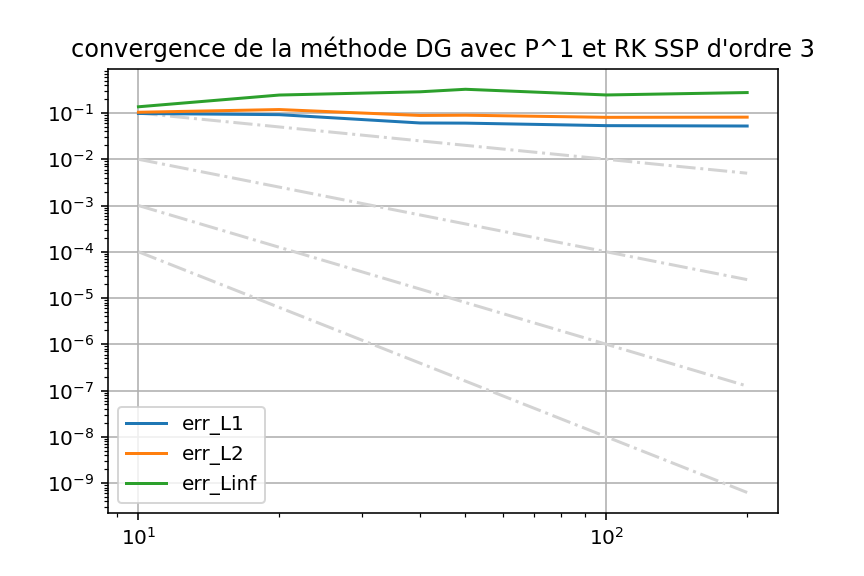
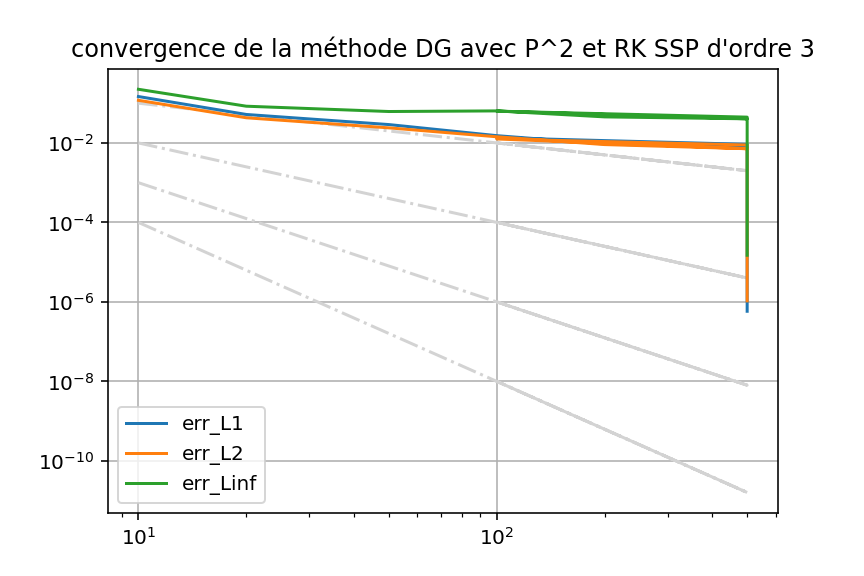
entropie d ordre 1 added

diff --git a/Galerkin_systeme/display.py b/Galerkin_systeme/display.py
@@ -11,7 +11,7 @@ nb_var = int(lines[0][10:16])
 orderx = int(lines[1][10:16])
 ordert = int(lines[2][10:16])
 nb_cell =int(lines[3][10:16]) ; nb_sub= int(lines[4][13:19])
-nx = nb_cell *orderx
+nx = nb_cell *nb_sub
 
 sm = int(lines[5][5:11])
 
@@ -39,7 +39,7 @@ dec = 0
 X_cell[-1]=1.
 
 
-for k in range(0,sm,5):
+for k in range(0,sm,1):
     for i in range(0,nx): 
         X[i] = lines1[k*(nx+1) + i][0:10]
         U_t[k][i][0]   = lines1[k*(nx+1) +i][10:27]
@@ -54,7 +54,7 @@ for k in range(0,sm,5):
         #     X_midcell[int(i/nb_sub)] = (X_cell[int(i/nb_sub)]+X_cell[int(i/nb_sub)+1])/2
             
     
-        U_ex[k][i][0]   = lines2[k*(nx+1) +i][11:27]
+        #U_ex[k][i][0]   = lines2[k*(nx+1) +i][11:27]
         # if(nb_var >1) : 
         #      U_ex[k][i][1]   = lines2[k*(nx+1) +i][28:43]
         # if(nb_var >2) :
@@ -103,7 +103,7 @@ for k in range(0,sm,5):
 
 
 
-if(False):
+if(True):
     with open('sol_ex/buckley.dat') as f:
         lines = f.readlines()
         

diff --git a/Galerkin_systeme/Mesh_read.py b/Galerkin_systeme/Mesh_read.py
@@ -30,7 +30,7 @@ for k in range(0,sm):
         theta_[k,i] = lines[k*(nx+1) +i+1][10:20]
         pos[k,i] = lines[k*(nx+1) +i+1][20:30]
         LMP[k,i] = lines[k*(nx+1) +i+1][29:39]
-        ent[k,i] = lines[k*(nx+1) +i+1][39:49]
+        ent[k,i] = float(lines[k*(nx+1) +i+1][39:49])
         if(lines[k*(nx+1)+i+1][49] == "T") : ext[k,i] =1
         
     
